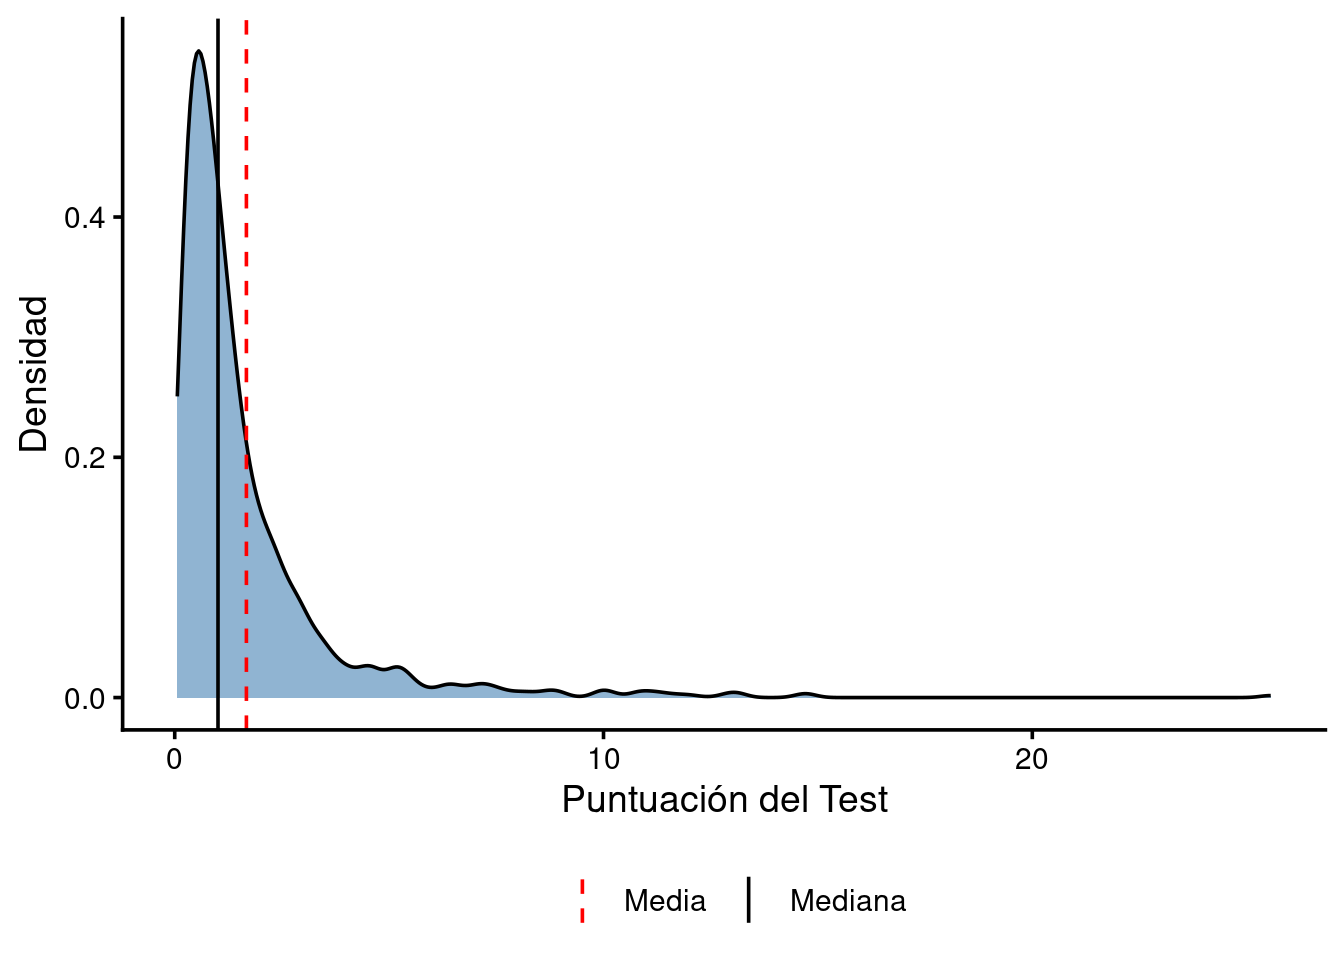
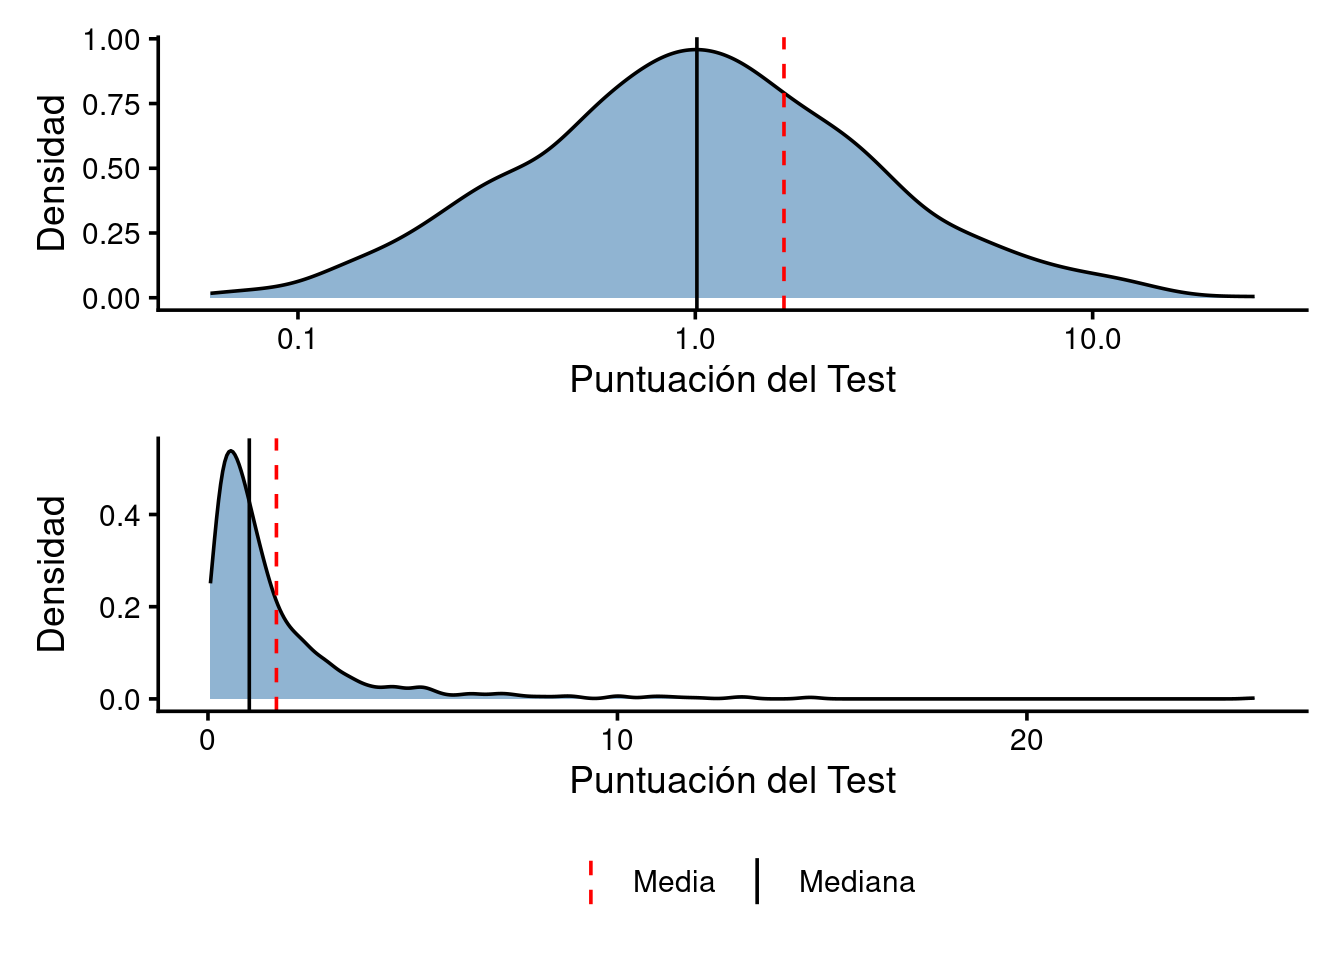
Articulo normalidad

Changed region(s): [[0.0312, 0.0312, 0.9688, 0.8438], [0.4688, 0.9062, 0.6875, 0.9688], [0.0, 0.3125, 0.0312, 0.4688]]

diff --git a/docs/posts/2026_04_07_Normalidad.html b/docs/posts/2026_04_07_Normalidad.html
@@ -47,28 +47,6 @@
 
 
 
-<style type="text/css">
-/* for pandoc --citeproc since 2.11 */
-div.csl-bib-body { }
-div.csl-entry {
-  clear: both;
-}
-.hanging div.csl-entry {
-  margin-left:2em;
-  text-indent:-2em;
-}
-div.csl-left-margin {
-  min-width:2em;
-  float:left;
-}
-div.csl-right-inline {
-  margin-left:2em;
-  padding-left:1em;
-}
-div.csl-indent {
-  margin-left: 2em;
-}
-</style>
 
 <link rel="stylesheet" href="../styles.css" type="text/css" />
 
@@ -338,88 +316,98 @@ Teorema del Límite Central (TLC). El TLC postula que cuando sumas muchas
 variables independientes y de varianza finita, la suma resultante tiende
 a la normalidad, sin importar la distribución original de esas
 variables.</p>
-<p>En psicología, asumimos que un constructo como la “Inteligencia” es
-el resultado de miles de pequeños factores (genéticos, ambientales,
-nutricionales) sumándose entre sí. Por eso, esperamos que las
-puntuaciones se agrupen en el centro. Es cómoda, es elegante y, sobre
-todo, permite usar la estadística paramétrica (t-tests, ANOVA) que tanto
-nos gusta.</p>
+<p>En psicología, se asume que algunos constructos, como la
+“Inteligencia”, son el resultado de miles de pequeños factores
+(genéticos, ambientales, nutricionales, etc.) sumándose entre sí. Por
+eso, se espera que las puntuaciones se agrupen en el centro. Es cómoda,
+es elegante y, sobre todo, permite usar la estadística paramétrica
+(t-tests, ANOVA) que tanto gusta y tan fácil resulta.</p>
 </div>
 <div id="el-límite-de-la-campana-cuando-el-mundo-se-vuelve-salvaje"
 class="section level2">
 <h2>El límite de la campana: Cuando el mundo se vuelve “salvaje”</h2>
-<p>El problema surge cuando los factores no se suman, sino que se
-multiplican o interactúan de forma compleja. Gauss funciona bien para
-medir estaturas, donde es físicamente imposible que alguien mida 10
-metros. Pero falla estrepitosamente en fenómenos donde un solo evento o
-individuo puede pesar más que toda la población junta.</p>
-<p>Aquí es donde los límites de la normalidad se hacen evidentes: *
-Ignora los extremos: En una normal, un evento a 5 desviaciones típicas
-es prácticamente imposible * Asume independencia: Asume que lo que le
-pasa a un sujeto no afecta al resto</p>
+<p>El problema surge cuando los factores no se suman sino que se
+multiplican o interactúan de forma compleja. La distribución normal
+funciona bien para medir estaturas, donde es físicamente imposible que
+alguien mida 10 metros, pero falla estrepitosamente en fenómenos donde
+un solo evento o individuo puede pesar más que el resto de la población
+junta.</p>
+<p>Aquí es donde los límites de la normalidad se hacen evidentes:</p>
+<ul>
+<li><p>Ignora los extremos: en una distribución normal, un evento a 5
+desviaciones típicas es prácticamente imposible</p></li>
+<li><p>Asume independencia: supone que lo que le pasa a un sujeto no
+afecta al resto</p></li>
+</ul>
 </div>
 <div id="la-ley-de-potencia-la-firma-de-la-complejidad"
 class="section level2">
-<h2>La Ley de Potencia: La firma de la complejidad</h2>
+<h2>La Ley de Potencia: la firma de la complejidad</h2>
 <p>Frente a la campana de Gauss aparece la Ley de Potencia. Si la normal
-es la distribución de la “mediocridad” (en el sentido estadístico de
-estar en la media), la ley de potencia es la distribución de los
-extremos.</p>
-<p>Se define matemáticamente como <span class="math inline">\(P(x)
-\propto x^{-\alpha}\)</span>. En este mundo, no hay un “valor típico”.
-Muchos fenómenos naturales y sociales siguen este patrón: * Terremotos:
-Hay miles de microseísmos diarios, pero la energía de un solo terremoto
-de escala 9.0 puede superar a todos los demás combinados * Víctimas de
-guerra: La mayoría de los conflictos tienen pocas víctimas, pero unos
-pocos (como las Guerras Mundiales) concentran la gran mayoría de la
-mortalidad histórica * Riqueza: El famoso principio de Pareto (el
-80/20).</p>
+es la distribución de la media, la ley de potencia es la distribución de
+los extremos. Se define matemáticamente como <span
+class="math inline">\(P(x) \propto x^{-\alpha}\)</span>. En este mundo,
+no hay un “valor típico”, sino que existen interacciones complejas entre
+pequeños factores que dan como resultado distribuciones “alargadas”.
+Muchos fenómenos naturales y sociales siguen este patrón:</p>
+<ul>
+<li><p>Terremotos: hay miles de microseísmos diarios, pero la energía de
+un solo terremoto de escala 9.0 puede superar a todos los demás
+combinados</p></li>
+<li><p>Víctimas de guerra: la mayoría de los conflictos tienen pocas
+víctimas, pero unos pocos (como las Guerras Mundiales) concentran la
+gran mayoría de la mortalidad histórica</p></li>
+<li><p>Riqueza: el famoso principio de Pareto (el 80/20)</p></li>
+</ul>
+<p><img src="2026_04_07_Normalidad_files/figure-html/log-1.png" alt="" width="672" /></p>
 <p>En estos casos, la media no sirve para nada. Si Bill Gates entra en
 un bar, la “riqueza media” de los clientes sube a mil millones de
 dólares, pero esa cifra no describe a nadie en el bar.</p>
 </div>
 <div id="el-puente-hacia-la-evaluación-la-distribución-log-normal"
 class="section level2">
-<h2>El puente hacia la evaluación: La Distribución Log-Normal¿</h2>
-<p>Cómo conectamos esto con un test psicológico? A través de la
-distribución Log-Normal. Esta ocurre cuando el logaritmo de una variable
-sigue una distribución normal. Es el resultado de procesos
-multiplicativos.</p>
+<h2>El puente hacia la evaluación: la distribución Log-Normal</h2>
+<p>¿Cómo se conecta esto con un test psicológico? A través de la
+distribución Log-Normal, cuando el logaritmo de una variable sigue una
+distribución normal. Es el resultado de procesos multiplicativos y se
+adapta a los términos más comprensibles de la estadística clásica,
+siempre y cuando se tenga en cuenta que lo representado es el logaritmo
+de los valores y no los valores en sí.</p>
+<p><img src="2026_04_07_Normalidad_files/figure-html/lognormal-1.png" alt="" width="672" /></p>
 <p>En la evaluación conductual (como tiempos de reacción o escalas de
 síntomas), los datos suelen presentar una asimetría positiva clara:
-mucha gente con puntuaciones bajas y unos pocos con puntuaciones
-altísimas.</p>
-<p><img src="2026_04_07_Normalidad_files/figure-html/lognormal-1.png" alt="" width="672" /></p>
-</div>
-<div id="por-qué-esto-importa-en-tu-investigación"
-class="section level2">
-<h2>¿Por qué esto importa en tu investigación?</h2>
-<p>Si estás evaluando la eficacia de un tratamiento o la distribución de
-una patología en una población y asumes normalidad cuando hay una ley de
-potencia o log-normalidad: * Diagnosticarás erróneamente: Al usar el
-punto de corte basado en desviaciones típicas (<span
-class="math inline">\(\mu \pm 2\sigma\)</span>), estarás sobrestimando o
-subestimando la rareza de un caso clínico. * Perderás poder predictivo:
-Los modelos lineales (regresiones) se verán sesgados por la cola larga,
-intentando ajustar la línea a valores extremos que no son errores, sino
-parte esencial de la distribución. * Validez de Contenido: Si un test de
-depresión muestra una distribución de ley de potencia, quizás es que la
-depresión no es un rasgo continuo en la población, sino un sistema
-complejo donde los síntomas se retroalimentan (efecto bola de
-nieve).</p>
-<p>Como investigadores, debemos ser valientes. Si tus datos muestran una
-cola larga, no intentes “normalizarlos” a la fuerza. Esa asimetría es la
-huella digital de la complejidad del comportamiento humano. Menos Gauss
-y más Pareto para una psicología que quiera entender de verdad los casos
-extremos.</p>
-</div>
-<div id="referencias" class="section level2">
-<h2>Referencias</h2>
-<div id="refs">
-
-</div>
-<p><br></p>
+mucha gente con puntuaciones bajas y unos pocos con puntuaciones altas.
+El analizar los datos y entender su distribución permite adaptar las
+técnicas y escalas de medida de manera adecuada.</p>
+<div id="por-qué-esto-importa-en-investigación" class="section level3">
+<h3>¿Por qué esto importa en investigación?</h3>
+<p>Si se evalúa la eficacia de un tratamiento o la distribución de una
+patología en una población y se asume normalidad cuando hay una ley de
+potencia o log-normalidad:</p>
+<ul>
+<li><p>Se diagnostica erróneamente, al usar el punto de corte basado en
+desviaciones típicas (<span class="math inline">\(\mu \pm
+2\sigma\)</span>). Se puede estar sobrestimando o subestimando la rareza
+de cada caso clínico</p></li>
+<li><p>Se pierde poder predictivo. Los modelos lineales (regresiones) se
+verán sesgados por la cola larga, intentando ajustar la línea a valores
+extremos que no son errores, sino parte esencial de la distribución.
+Esto puede dar lugar a correlaciones ilusorias o a efectos ficticios y,
+por la otra parte, se pueden eludir fenómenos escasos de gran interés
+clínico</p></li>
+<li><p>Validez de Contenido. Si un test de depresión muestra una
+distribución de ley de potencia, quizás es que la depresión no es un
+rasgo continuo en la población, sino un sistema complejo donde los
+síntomas se retroalimentan (efecto bola de nieve) o interaccionan de
+formas que la distribución normal no explica</p></li>
+</ul>
+<p>Como investigadores, debemos ser valientes. Si los datos muestran una
+cola larga, no se debe intentar “normalizarlos” a la fuerza. Esa
+asimetría es la huella digital de la complejidad del comportamiento
+humano. Una mirada más abierta respecto a las distribuciones puede dar
+lugar a una psicología que entienda de verdad los casos extremos.</p>
 <p><a href="../posts.html">Volver</a></p>
+</div>
 </div>
 
 <footer>
